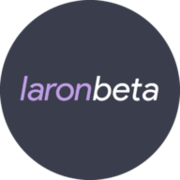
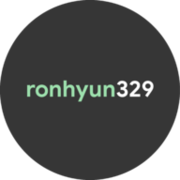
hohohehe

Changed region(s): [[0.1111, 0.4167, 0.8889, 0.5833]]

diff --git a/index.html b/index.html
@@ -30,7 +30,7 @@
       <meta name="keywords" content="ronaldi, ronhyun329, ronhyun, android, ronaldi chandra, design, web developer, developer">
       <meta property="og:title" content="Ronaldi Chandra">
       <meta property="og:url" content="https://ronhyun329.github.io/">
-      <meta property="og:image" content="https://ronhyun329.github.io/assets/images/laronbeta.png">
+      <meta property="og:image" content="https://ronhyun329.github.io/assets/images/ronhyun.png">
       <meta property="og:site_name" content="ronhyun329">
       <meta name="article:author" content="Ronaldi Chandra">
       <meta property="og:description" content="Koreaboo | Open-Sauce enthusiast">
@@ -42,7 +42,7 @@
       <meta name="google-site-verification" content="kAeDID1ivK-yWBCw4U7PB_igjF7XtDn3mDWiw_CPcJk" />
     
                                       <!-- SOURCES -->
-      <link rel="canonical" href="https://laronbeta.github.io"/>
+      <link rel="canonical" href="https://ronhyun329.github.io"/>
       <link rel="stylesheet" href="assets/css/ronaldi.css">
       <link rel="manifest" href="/assets/json/manifest.json">
       <link href="https://fonts.googleapis.com/css?family=Google+Sans:100,300,400,500,700,900,100i,300i,400i,500i,700i,900i&display=swap" rel="stylesheet"> 
